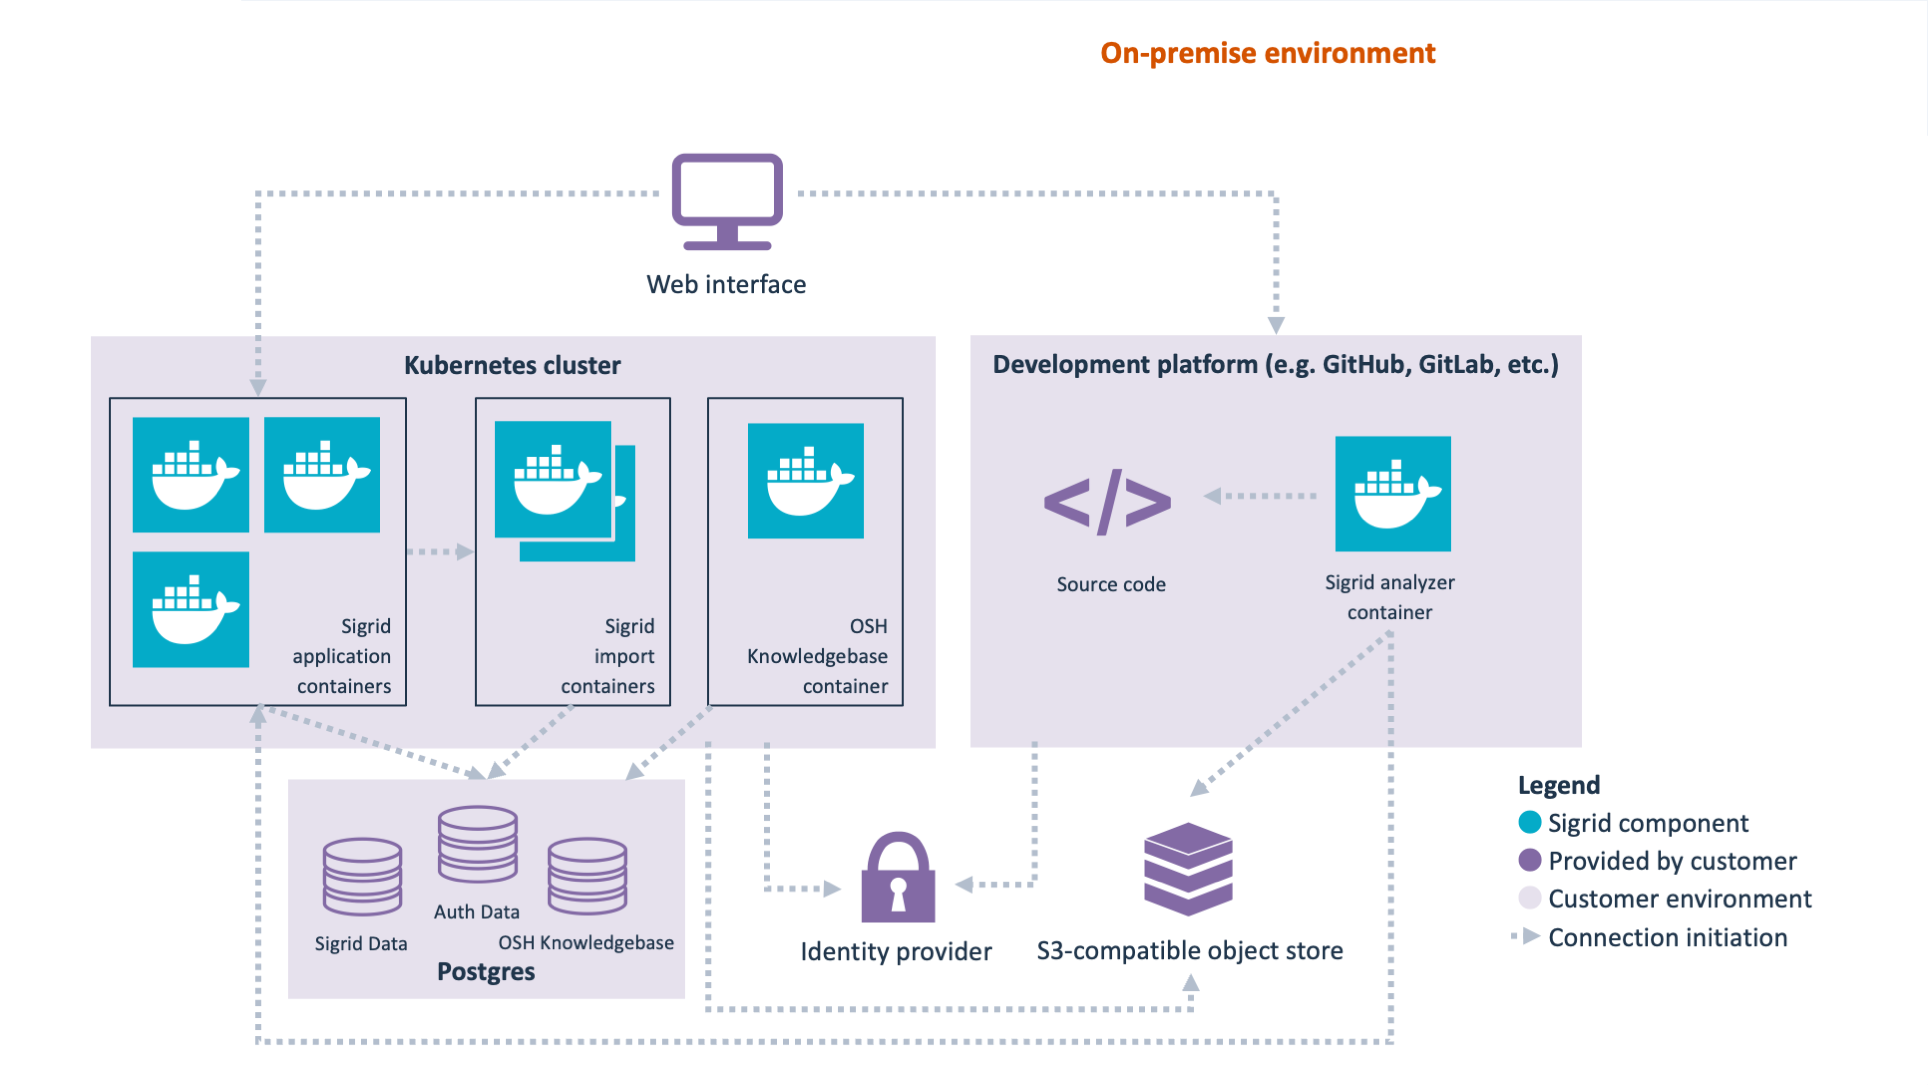
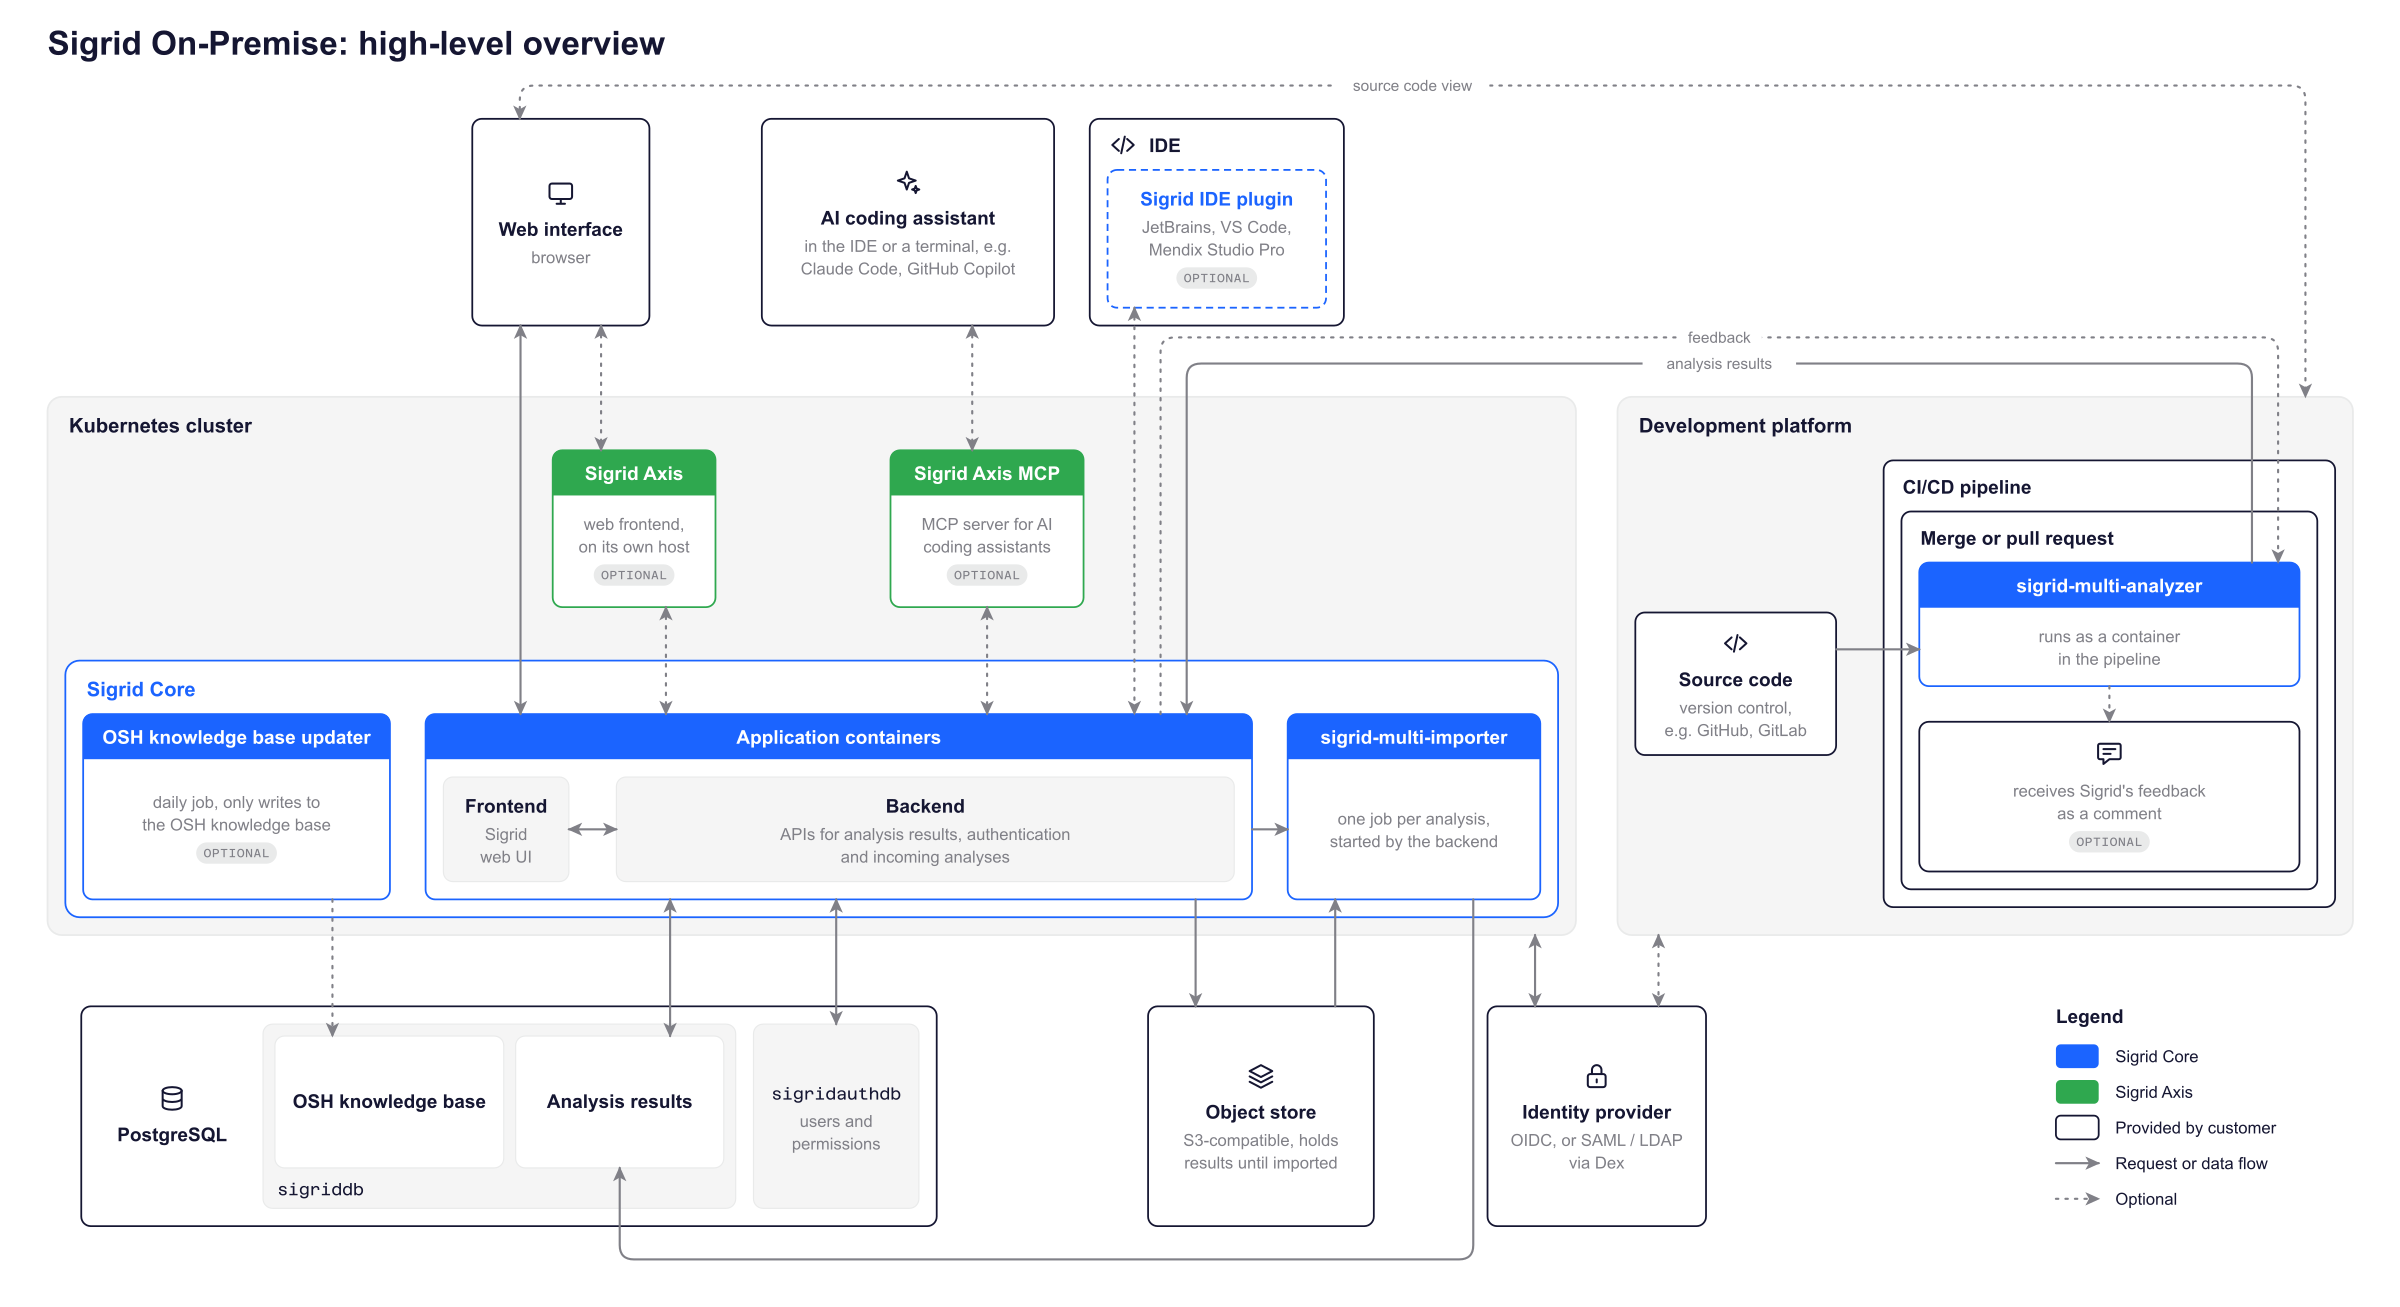
Update highlevel overview (#1088)
* Update onpremise-overview.png

* update descriptions

* correction

* change diagram width

diff --git a/docs/organization-integration/onpremise-integration.md b/docs/organization-integration/onpremise-integration.md
@@ -10,17 +10,23 @@ This document covers everything you need to integrate Sigrid On-Premise in your 
 From a deployment perspective, on-premise Sigrid consists of two "parts":
 
 - **Sigrid** is the Sigrid web application, which you access from your browser.
-- **Sigrid-Multi-Analyzer** runs within your development platform (e.g. GitHub). It performs the analyses and then publishes the results to Sigrid.
+- **Sigrid-Multi-Analyzer** runs within your development platform (e.g. GitHub). It analyzes your source code and sends the analysis to Sigrid.
 
-<img src="../images/onpremise-overview.png" width="60%" />
+<img src="../images/onpremise-overview.png" width="70%" />
 
 - Sigrid On-Premise is based on [Docker containers](https://en.wikipedia.org/wiki/Docker_%28software%29). There are two types of containers:
   - Application containers that should be deployed permanently in a [Kubernetes](https://en.wikipedia.org/wiki/Kubernetes) cluster, based on a [Helm chart](https://helm.sh) that is provided by SIG.
   - Analysis containers that run from a build pipeline within your development platform.
 - SIG provides the necessary images through a container registry. The section [obtaining Sigrid on-premise](#obtaining-sigrid-on-premise) contains more information on how you can obtain and update these Docker containers.
 - Authentication is based on your identity provider, using [OpenID Connect](https://openid.net/developers/how-connect-works/). Alternatively, [SAML](https://en.wikipedia.org/wiki/SAML_2.0) or [LDAP](https://en.wikipedia.org/wiki/Lightweight_Directory_Access_Protocol) are also supported, through [Dex](https://dexidp.io/).
-- Analyses are triggered from a build pipeline. The analysis results are then imported into a Postgres database, so they can be viewed in Sigrid.
-- Large files are stored in an [S3-compatible object store](https://aws.amazon.com/s3/).
+- Analyses are triggered from a build pipeline. Sigrid-Multi-Analyzer analyzes your source code and sends the analysis to Sigrid. Sigrid stores it in an [S3-compatible object store](https://aws.amazon.com/s3/) and starts an import job (Sigrid-Multi-Importer), which imports the results into a Postgres database, so they can be viewed in Sigrid.
+- Sigrid sends feedback on the analysis back to Sigrid-Multi-Analyzer, which can post it as a comment on your merge or pull request. See [pull request comment feedback](onpremise-analysis.md#pull-request-comment-feedback).
+- The web interface and Sigrid Axis do not access the database directly. Their frontends call the Sigrid backend APIs, which read and write Postgres.
+- Postgres holds two databases: `sigriddb` for the analysis results and the Open Source Health knowledge base, and `sigridauthdb` for users and permissions.
+- Besides the web interface, developers can use Sigrid from their IDE. The optional Sigrid IDE plugins for [JetBrains](../integrations/jetbrains-extension.md), [VS Code](../integrations/vscode-extension.md) and [Mendix Studio Pro](../integrations/mendix-studio-pro-extension.md) connect to your on-premise Sigrid with an [authentication token](authentication-tokens.md).
+- AI coding assistants, running in the IDE or in a terminal, connect to the optional Sigrid Axis MCP server.
+
+In the diagram, blue marks the components of Sigrid Core and green marks the components of Sigrid Axis. Everything with a dark outline is provided by you.
 
 Some Sigrid On-Premise features are *optional*.
 
@@ -30,9 +36,10 @@ The most commonly deployed optional features are:
 - **Source code view** - Displays source code within Sigrid. Requires a web-accessible code repository integrated via [OAuth](https://oauth.net/2/), using the same identity provider as Sigrid authentication.
 - **Custom CA certificates** - Supports organizations using internal certificate authorities.
 - **AI Explanations** - Pre-generated explanations tailored to each finding type.
+- **Sigrid Axis** - The product for agentic tooling, with its own web frontend on its own host name. See [Sigrid Axis for Sigrid On-Premise](onpremise-axis.md).
 - **Sigrid Axis MCP server** - Integrates Sigrid's analysis into AI coding assistants. See [Sigrid Axis MCP server for Sigrid On-Premise](onpremise-mcp.md).
 
-<img src="../images/onpremise-optional-features.png" width="60%" />
+<img src="../images/onpremise-optional-features.png" width="70%" />
 
 These features vary in their deployment complexity. Some require only a few configuration lines in your Helm values file, while others need additional container images or more service configuration. For deployment details, refer to [Kubernetes deployment](onpremise-kubernetes.md) and it's child pages.
 
